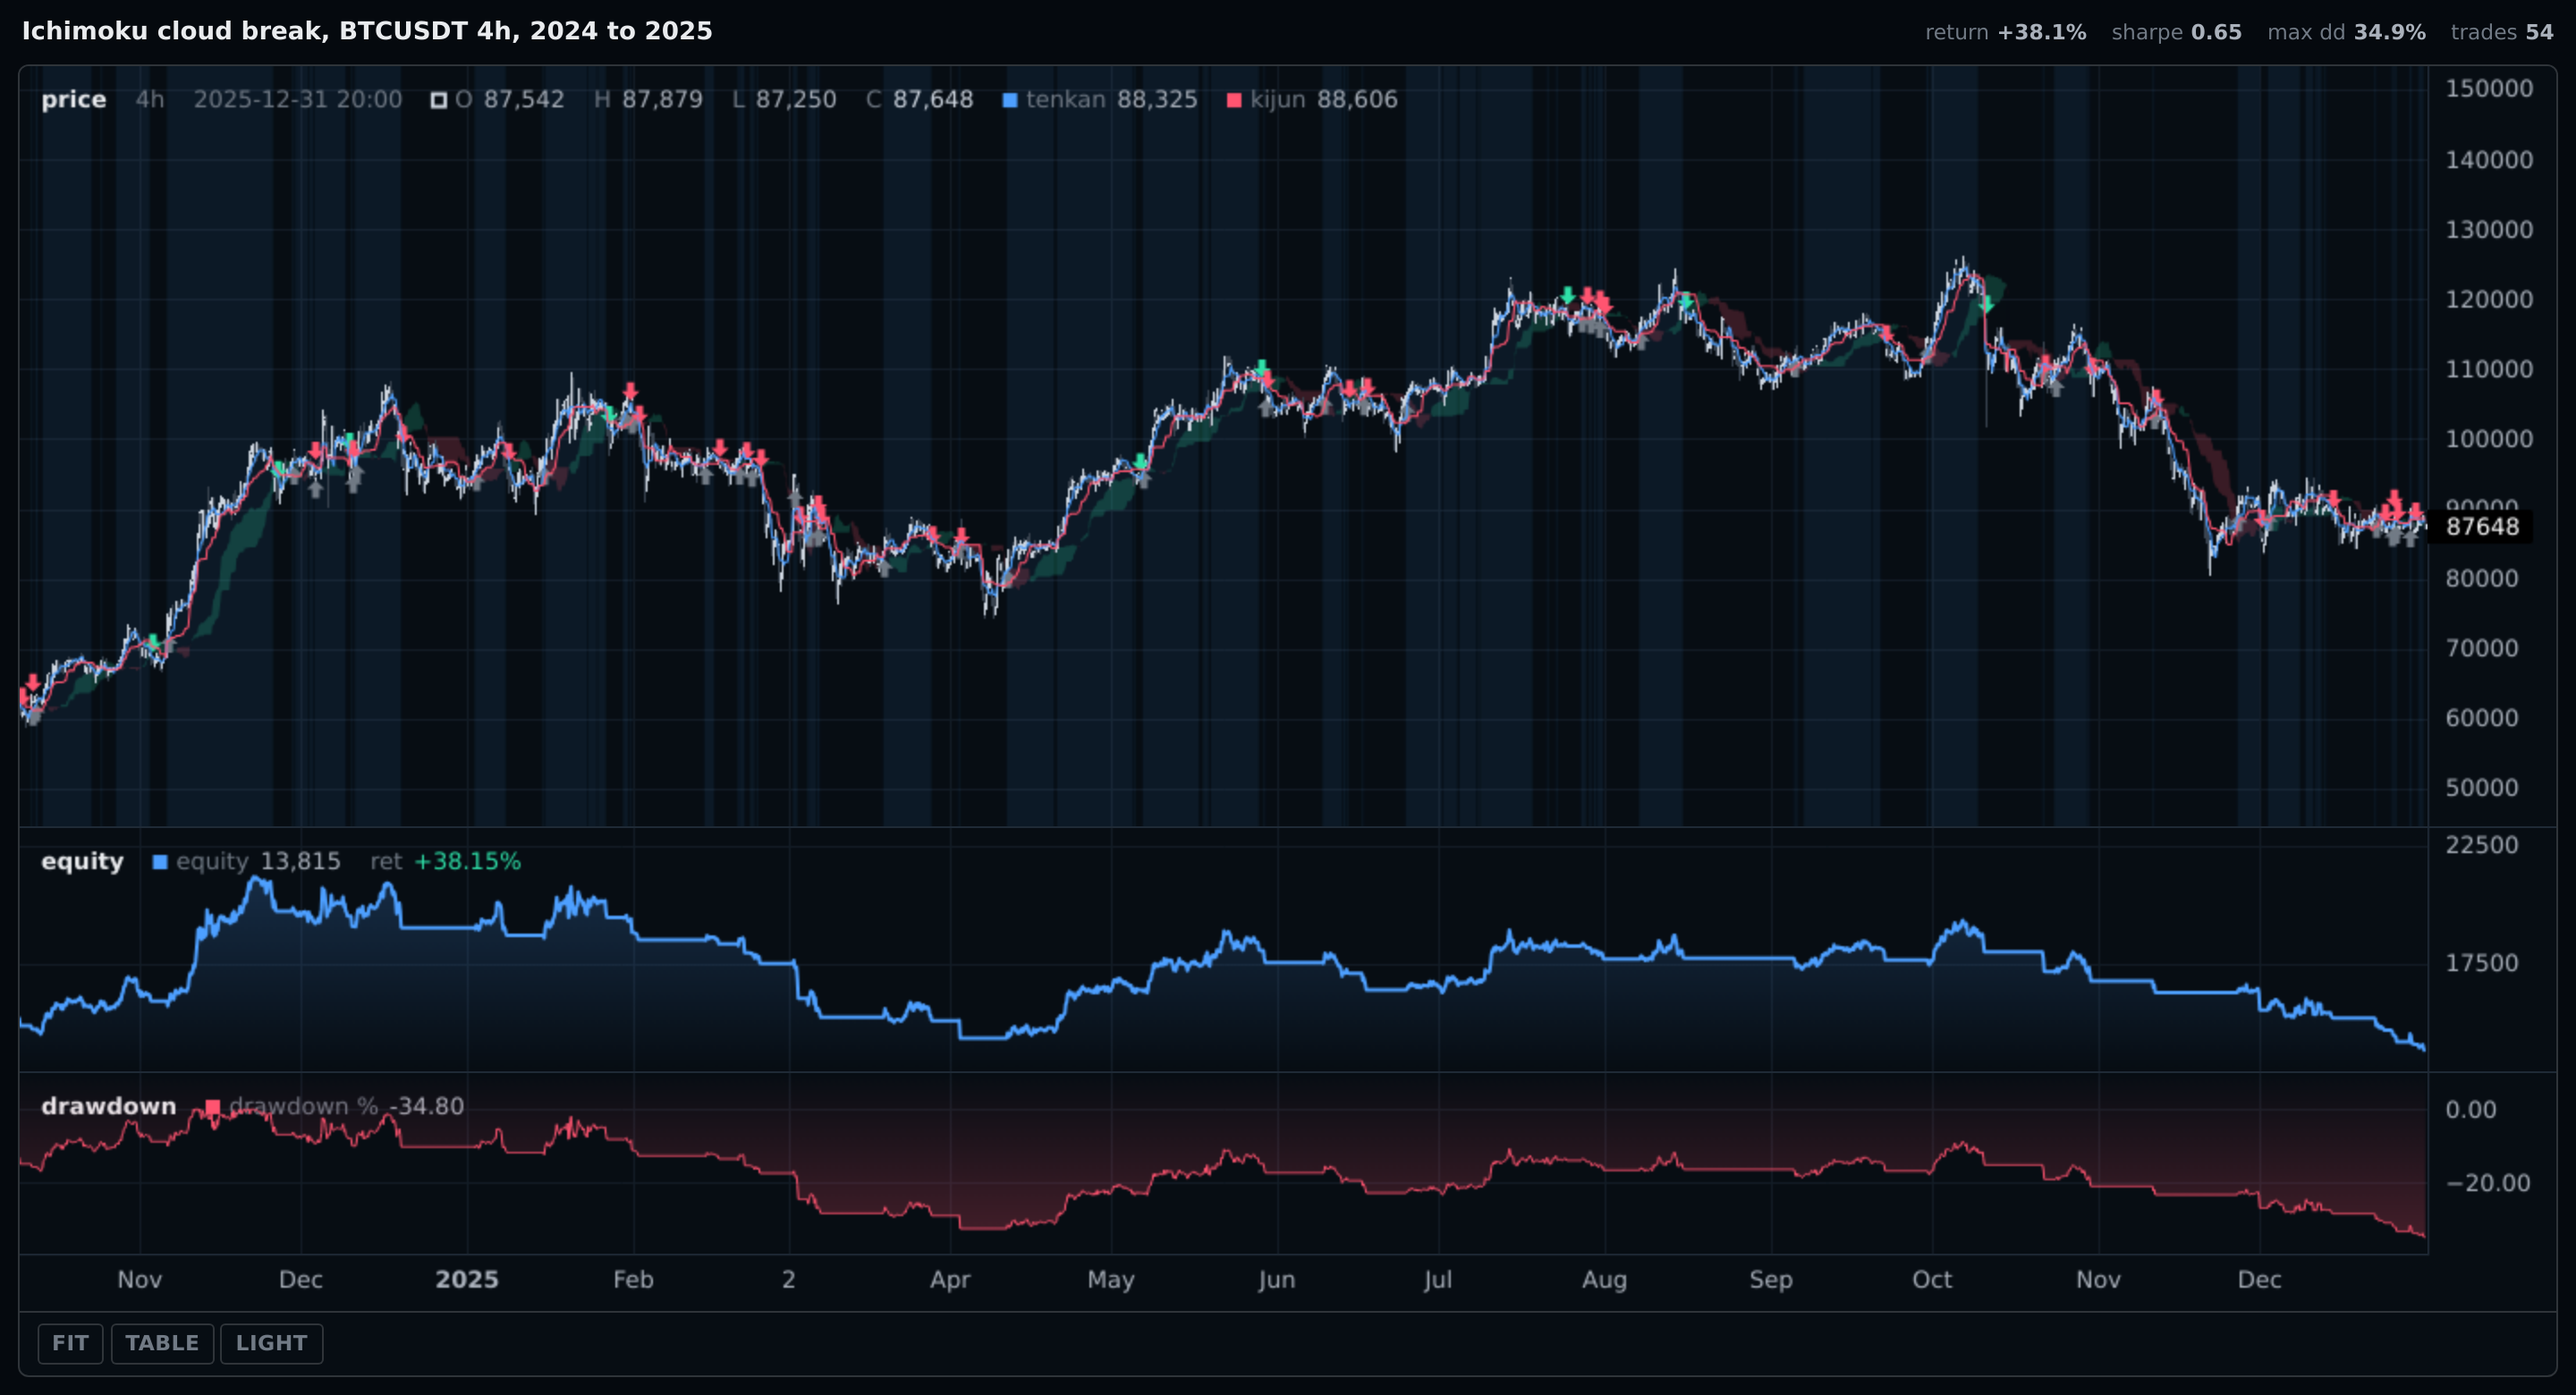
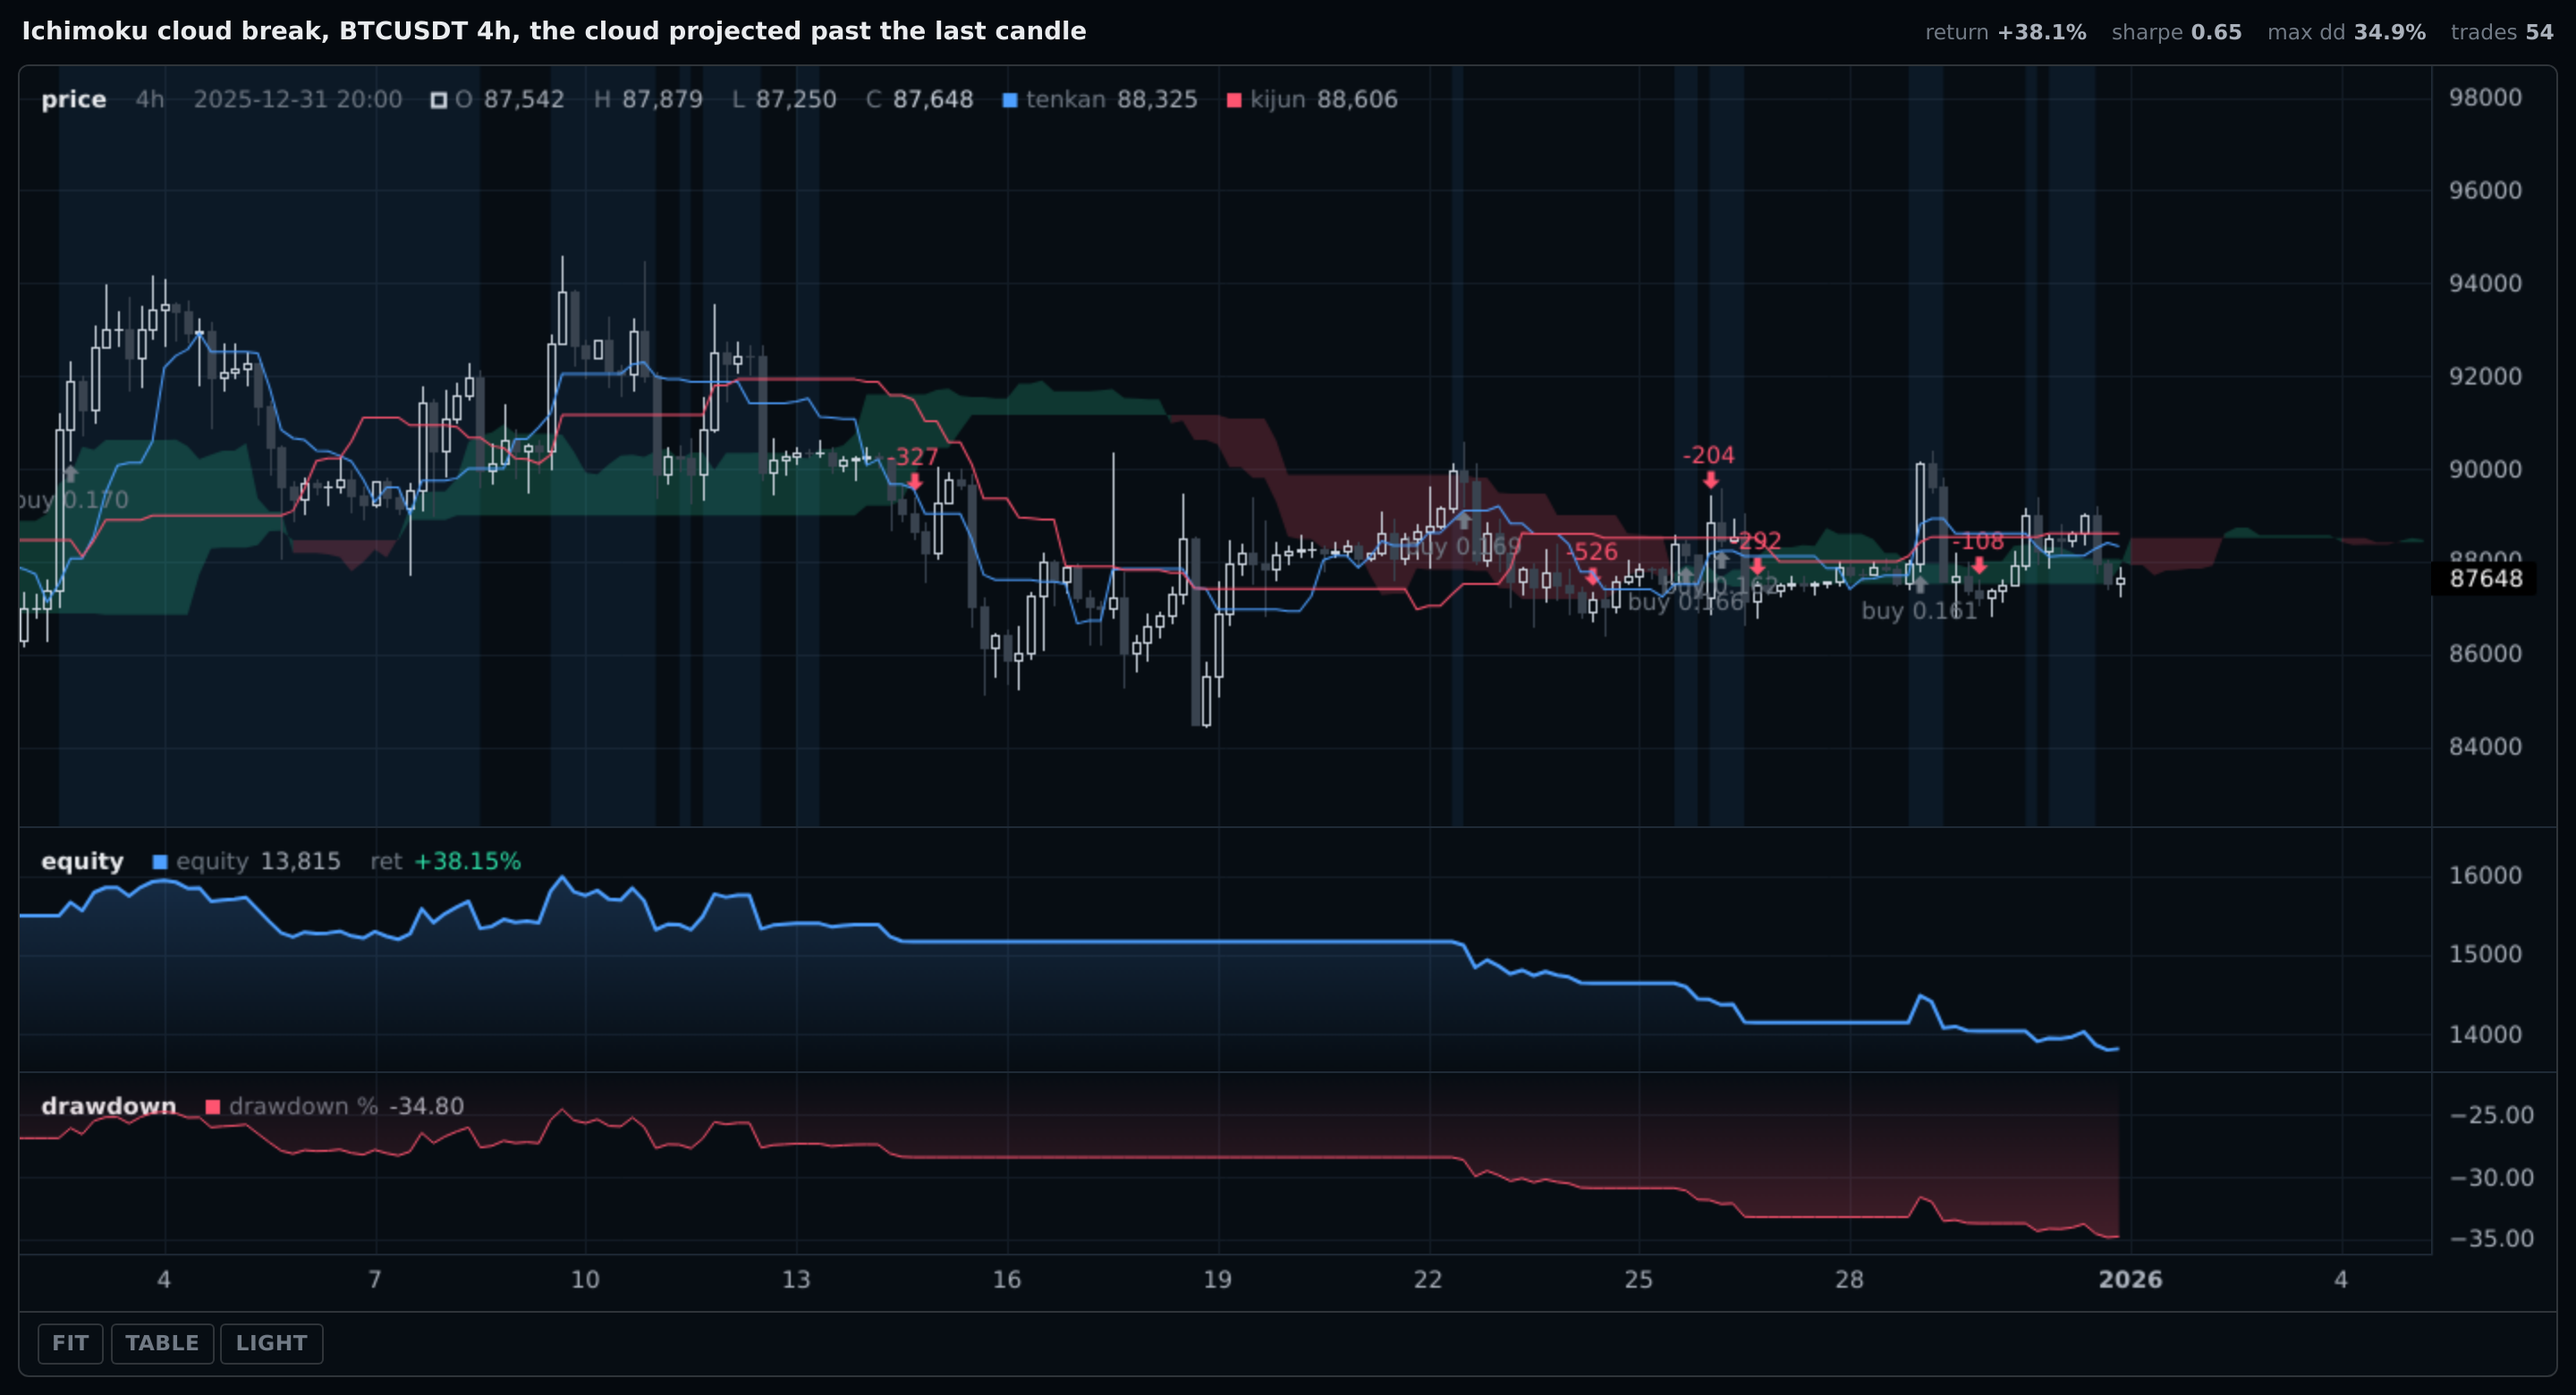
docs: a hero chart that shows what the library can draw
- dev/charts/build.py: the README's strategy is a channel breakout with a MACD
  filter and a long-trend gate, replacing the SMA cross. It draws a Background,
  a Band, a Line, a Histogram coloured by sign, Markers and candle_color, where
  the old one drew two lines and an RSI. The gate is not decoration: entering
  and leaving on the same average whipsawed 181 times in a year and the picture
  was unreadable, and the trend filter took the run from -29.2% to -14.0% and
  the drawdown from 34.2% to 15.7% on 30 trades
- dev/charts/build.py: no `panels=` on that call, because the README prints it
  and claims the placement is the library's, so five panels are now placed,
  ordered and weighted with nothing said about them
- dev/charts/build.py: the projection chart is framed with `focus=180`. Over two
  years of 4h candles the twenty-six projected bars were one percent of the
  width, so the picture demonstrating `future=` did not show it. The integer
  form is the one that means "the last N bars PLUS what was projected past
  them"; a pair ending on the last bar clips off exactly the projection
- README.md: the snippet is the call that made the image. It used to show two
  Lines against a chart carrying an RSI panel nobody had asked for, and the
  caption claimed nothing configured a panel, which is now true

diff --git a/dev/charts/build.py b/dev/charts/build.py
@@ -31,7 +31,7 @@ import pandas
 
 import emsl
 from emsl.plot import (
-    Background, Band, Level, Line, Markers, Panel, Recorder, ramp,
+    Background, Band, Histogram, Level, Line, Markers, Panel, Recorder, ramp,
 )
 
 DATA = pathlib.Path("/data/binance_spot_BTCUSDT_5m.parquet")
@@ -105,46 +105,76 @@ def load():
 # ------------------------------------------------------- the flagship charts
 
 
-class SmaCross(emsl.Strategy):
-    """The README's strategy: cross into a long, unless momentum is already hot."""
+class Channel(emsl.Strategy):
+    """The README's strategy: hold above the channel basis while MACD agrees.
 
-    def __init__(self, fast, slow, momentum, hot_above):
+    Every indicator is shifted a bar before it is read, so a decision on bar `i`
+    sees only what closed at `i - 1` and fills at the open of `i + 1`.
+    """
+
+    def __init__(self, length, fast, slow, signal, trend):
+        self.length = length
         self.fast_n = fast
         self.slow_n = slow
-        self.momentum_n = momentum
-        self.hot_above = hot_above
+        self.signal_n = signal
+        self.trend_n = trend
 
     def init(self, engine):
         close = pandas.Series(engine.data[:, 3])
-        self.fast = close.rolling(self.fast_n).mean().shift(1).to_numpy()
-        self.slow = close.rolling(self.slow_n).mean().shift(1).to_numpy()
-        self.momentum = relative_strength(
-            close=close, length=self.momentum_n,
-        ).shift(1).to_numpy()
+        basis = close.rolling(self.length).mean()
+        width = close.rolling(self.length).std()
+        self.basis = basis.shift(1).to_numpy()
+        self.upper = (basis + 2.0 * width).shift(1).to_numpy()
+        self.lower = (basis - 2.0 * width).shift(1).to_numpy()
+
+        # the regime gate. A breakout system is long only, so the half of the year
+        # the market spends below its own long average is the half it has no
+        # business trading, and the shading behind the candles is that half
+        slower = close.rolling(self.trend_n).mean().shift(1)
+        self.uptrend = (close.shift(1) > slower).fillna(False).to_numpy()
+
+        macd = (close.ewm(span=self.fast_n, adjust=False).mean()
+                - close.ewm(span=self.slow_n, adjust=False).mean())
+        self.hist = (macd - macd.ewm(span=self.signal_n, adjust=False).mean()) \
+            .shift(1).to_numpy()
+
+        self.close = close.shift(1).to_numpy()
         self.blocked = numpy.zeros(len(close), dtype=bool)
 
     def next(self, state, engine):
         bar = state["tick_index"]
-        if bar < self.slow_n + 1:
+        if bar < self.length + 1:
             return
-        leading = self.fast[bar] > self.slow[bar]
-        if state["position"] == 0.0 and leading:
-            if self.momentum[bar] < self.hot_above:
+        # in on a break of the upper edge, out on a loss of the basis. The two
+        # thresholds are deliberately different: entering and leaving on the same
+        # line whipsaws on every bar that straddles it, which on hourly candles
+        # was 181 trades in a year and a chart nobody could read
+        if state["position"] == 0.0 and self.uptrend[bar] \
+                and self.close[bar] > self.upper[bar]:
+            # the break has to arrive while momentum is still building; one taken
+            # into a fading impulse is what this filters, and the arrow marks it
+            if self.hist[bar] > 0.0:
                 engine.market_buy(engine.qty_from_weight(1.0))
             else:
                 self.blocked[bar] = True
-        elif state["position"] > 0.0 and not leading:
+        elif state["position"] > 0.0 and self.close[bar] < self.basis[bar]:
             engine.close()
 
     def marks(self):
         return [
-            Line(values=self.fast, name=f"SMA {self.fast_n}"),
-            Line(values=self.slow, name=f"SMA {self.slow_n}", style="dashed"),
+            Background(values=self.uptrend, fill="#2fe0a814"),
+            Band(upper=self.upper, lower=self.lower, name=f"channel {self.length}",
+                 fill="#8b97a514"),
+            Line(values=self.basis, name=f"basis {self.length}", color=GREY,
+                 width=1, style="dashed"),
             Markers(mask=self.blocked, shape="arrow_down", offset=22),
-            Line(values=self.momentum, name=f"RSI {self.momentum_n}",
-                 panel="momentum"),
-            Level(value=self.hot_above, panel="momentum", style="dotted"),
-            Level(value=100.0 - self.hot_above, panel="momentum", style="dotted"),
+            Histogram(
+                values=self.hist,
+                name=f"MACD {self.fast_n}/{self.slow_n}/{self.signal_n}",
+                panel="momentum",
+                color=numpy.where(self.hist >= 0.0, GREEN, RED),
+            ),
+            Level(value=0.0, panel="momentum", style="dotted"),
         ]
 
 
@@ -211,7 +241,7 @@ def start_here(raw):
     # year it happened to be run in
     frame = resample_to(bars=raw, rule="1h").loc["2025"]
 
-    strategy = SmaCross(fast=24, slow=96, momentum=14, hot_above=70.0)
+    strategy = Channel(length=96, fast=12, slow=26, signal=9, trend=480)
     result = emsl.backtest.Backtester(
         candles=frame,
         market="spot",
@@ -222,23 +252,21 @@ def start_here(raw):
         periods_per_year=8760,
     ).run(strategy)
 
-    # 760 rather than the 880 the notebook used, because a chart sizes itself to
-    # its window and the extra room changes which ticks the axis picks: at 880 the
-    # momentum panel drew 0 to 120 despite being pinned to 0 to 100, so the
-    # picture contradicted the keyword printed beside it
+    held = numpy.zeros(len(frame), dtype=bool)
+    for trade in result.trades:
+        held[trade["entry_tick"]:trade["exit_tick"] + 1] = True
+
     keep("chart-backtest", emsl.chart(
         frame=frame,
         marks=strategy.marks(),
         run=result,
-        panels=[
-            Panel(name="price", weight=6.0),
-            Panel(name="momentum", weight=2.0, range=(0.0, 100.0)),
-            Panel(name="equity", weight=2.5),
-            Panel(name="drawdown", weight=1.5),
-        ],
-        title="SMA 24/96 with an RSI filter, BTCUSDT 1h, binance spot, 2025",
+        candle_color=numpy.where(held, BLUE, None),
+        # deliberately no `panels=`. The README prints this call and claims the
+        # placement is the library's, so the claim has to be true of the picture
+        # beside it: five panels, their order and their weights are all chosen here
+        title="A channel breakout with a MACD filter, BTCUSDT 1h, binance spot, 2025",
         height=760,
-    ), WIDE, "an SMA cross with an RSI filter, on a frozen year of candles")
+    ), WIDE, "a channel, a momentum histogram, and the bars it was holding")
 
     return frame, result, strategy
 
@@ -284,7 +312,14 @@ def cloud_break(raw):
             Panel(name="volume", show=False),
         ],
         future=AHEAD,
-        title="Ichimoku cloud break, BTCUSDT 4h, 2024 to 2025",
+        # framed on the tail, because that is the whole point of the picture. Over
+        # two years of 4h candles the twenty-six projected bars are one percent of
+        # the width, so the image demonstrating `future=` did not show it. The
+        # integer form rather than a pair: it means the last N bars PLUS whatever
+        # was projected past them, and a pair ending on the last bar caps the
+        # window there and clips off exactly the projection being demonstrated
+        focus=180,
+        title="Ichimoku cloud break, BTCUSDT 4h, the cloud projected past the last candle",
         height=780,
     ), WIDE, "a cloud drawn twenty-six bars past the last candle")
 

diff --git a/README.md b/README.md
@@ -279,26 +279,40 @@ For the probabilities there are `probabilistic_sharpe`, `sharpe_interval`, `min_
 The five paths above produce numbers. `emsl.chart` is how you look at them: candles, the fills on the bars they happened on, an equity curve, a drawdown panel, a trade log, and any array of your own beside them.
 
 ```python
+import numpy
+
 import emsl
-from emsl.plot import Line
+from emsl.plot import Background, Band, Histogram, Level, Line
 
-strategy = SmaCross(fast=20, slow=50)
+result = emsl.backtest.Backtester(candles=frame, market="spot").run(strategy)
 
-result = emsl.backtest.Backtester(candles=frame, market="perp").run(strategy)
+# the bars the rule was actually in the market. Ticks index bars, so this is one
+# entry per candle; an equity curve is one shorter and the chart aligns it for you
+held = numpy.zeros(len(frame), dtype=bool)
+for trade in result.trades:
+    held[trade["entry_tick"]:trade["exit_tick"] + 1] = True
 
 emsl.chart(
     frame=frame,
-    marks=[
-        Line(values=strategy.fast, name="SMA 20"),
-        Line(values=strategy.slow, name="SMA 50", style="dashed"),
+    marks=[                                    # every array here is the strategy's
+        Background(values=strategy.uptrend, fill="#2fe0a814"),
+        Band(upper=strategy.upper, lower=strategy.lower, name="channel 96",
+             fill="#8b97a514"),
+        Line(values=strategy.basis, name="basis 96", width=1, style="dashed"),
+        Histogram(values=strategy.hist, name="MACD 12/26/9", panel="momentum",
+                  color=numpy.where(strategy.hist >= 0.0, "#2fe0a8", "#ff5470")),
+        Level(value=0.0, panel="momentum", style="dotted"),
     ],
     run=result,
+    candle_color=numpy.where(held, "#4d9fff", None),
 ).show()
 ```
 
+Those are the arrays the rule decided on, handed over as they are. Nothing here recomputes an indicator, because a recomputed copy is a picture of a rule that was never executed.
+
 <div align="center">
-  <img src=".Documentation/imgs/charts/chart-backtest.png" alt="A backtest drawn: candles, two averages, fills on the bars they filled on, momentum, equity and drawdown" width="100%" />
-  <p style="margin: 0;"><i>One call, one year of hourly candles. Nothing above configures a panel, an axis, or a colour</i></p>
+  <img src=".Documentation/imgs/charts/chart-backtest.png" alt="A backtest drawn: a channel and its basis, a regime shaded behind the candles, the fills on the bars they filled on, a MACD histogram, equity and drawdown" width="100%" />
+  <p style="margin: 0;"><i>One call, one year of hourly candles. Five panels, their order, their weights and the trade log are the library's; every mark on them is the strategy's own array</i></p>
 </div>
 
 <br>
